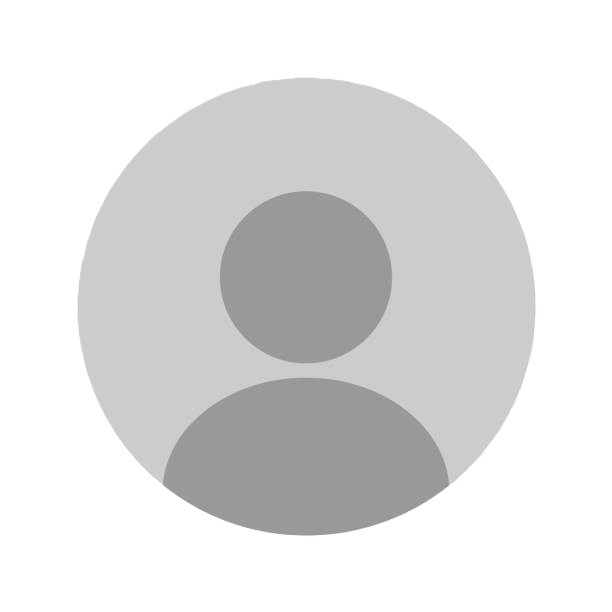
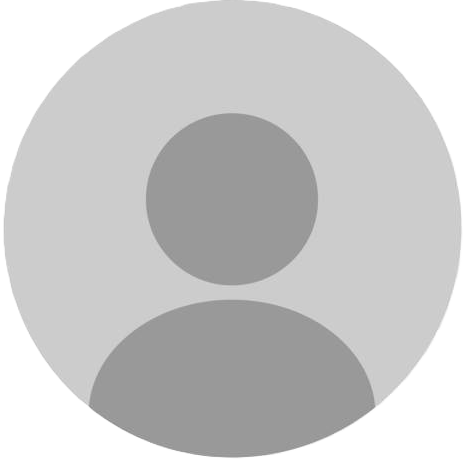
update

diff --git a/style/profile.css b/style/profile.css
@@ -6,18 +6,21 @@ img {
     display: flex;
 }
 
-.profil {
+.profil, .profil2 {
     background-color: gainsboro;
     padding: 20px;
     width: 600px;
-    height: 450px;
     border-radius: 30px;
+}
+
+.profil2 {
+    height: 450px;
 }
 
 .profil input {
     display: block;
     margin: 10px 20px 20px 20px;
-    width: 500px;
+    width: 550px;
     height: 30px;
     border-radius: 10px;
     border: 0px;
@@ -30,9 +33,31 @@ img {
 
 .profil textarea {
     margin: 10px 20px 0px 20px;
-    width: 500px;
+    width: 550px;
     height: 60px;
     border-radius: 10px;
     border: 0px;
     padding: 5px 0px 0px 10px;
+}
+
+.top, .bottom {
+    display: flex;
+    justify-content: flex-end;
+}
+
+.top button, .bottom button {
+    padding: 10px;
+    margin: 10px;
+    border-radius: 20px;
+    width: 100px;
+    font-size: medium;
+    border: none;
+}
+
+.bottom {
+    display: none;
+}
+
+.bottom.show {
+    display: flex;
 }

diff --git a/page/profile.html b/page/profile.html
@@ -4,6 +4,7 @@
     <meta charset="UTF-8">
     <meta name="viewport" content="width=device-width, initial-scale=1.0">
     <link rel="stylesheet" href="/style/profile.css">
+    <script src="/js/profile.js" defer></script>
     <title>UTeM RecycleHub</title>
 </head>
 <body>
@@ -17,23 +18,32 @@
         <div>
             <h2>Profile</h2>
             <div class="profil">
-                <button type="button">Edit</button>
-                <form action="">
+                <div class="top">
+                    <button type="button" id="editBtn" >Edit</button>
+                </div>
+                
+                <form action="" method="post">
                     <label for="name">Name</label>
                     <input type="text" name="name" id="name">
+
                     <label for="email">Email</label>
                     <input type="email" name="email" id="email">
+
                     <label for="phone">Phone Number</label>
                     <input type="number" name="phone" id="phone">
+
                     <label for="address">Address</label>
                     <textarea name="address" id="address"></textarea><br>
-                    <button type="submit">Save</button>
-                    <button type="reset">Cancel</button>
+                    
+                    <div class="bottom" id="bottomBtn">
+                        <button type="submit">Save</button>
+                        <button type="reset">Cancel</button>
+                    </div>
                 </form>
             </div>
 
             <h2>Recent Activity</h2>
-            <div class="profil">
+            <div class="profil2">
 
             </div>
         </div>

diff --git a/style/sidebar.css b/style/sidebar.css
@@ -6,7 +6,7 @@
     border-right: 2px solid gainsboro;
 }
 
-a {
+#side a {
     display: flex;
     align-items: center;
     margin: 20px;
@@ -17,11 +17,11 @@ a {
     border-radius: 20px;
 }
 
-a:hover {
+#side a:hover {
     background-color: rgb(148, 252, 136);
 }
 
-a:visited {
+#side a:visited {
     color: black;
 }
 

diff --git a/style/header.css b/style/header.css
@@ -32,3 +32,8 @@ p {
     height: 70px;
     margin: 50px;
 }
+
+.profile a {
+    display: inline-block;
+    height: 0;
+}

diff --git a/js/profile.js b/js/profile.js
@@ -1,0 +1,3 @@
+document.getElementById("editBtn").addEventListener("click", () => {
+    document.getElementById("bottomBtn").classList.toggle("show");
+});